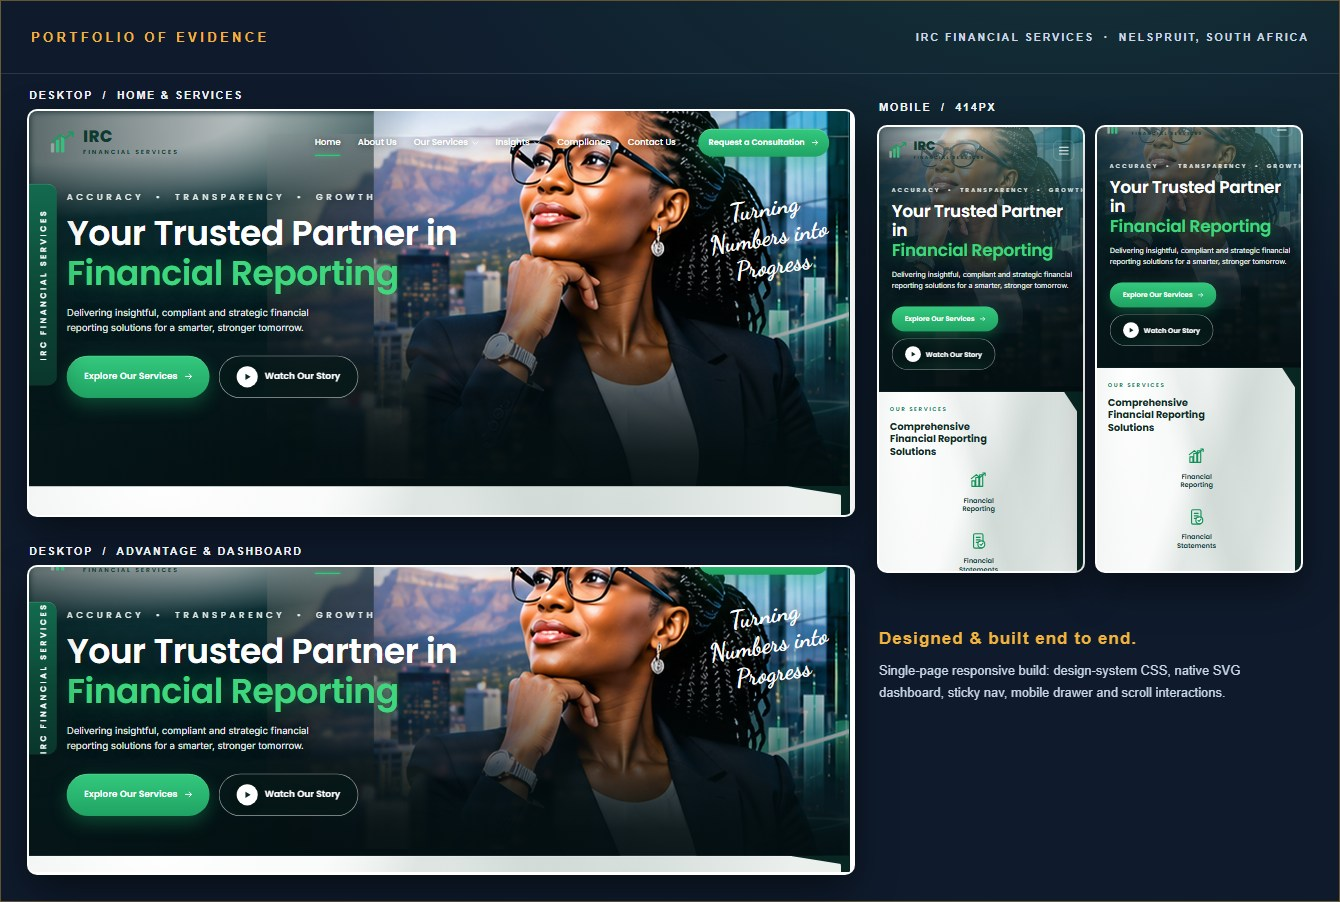
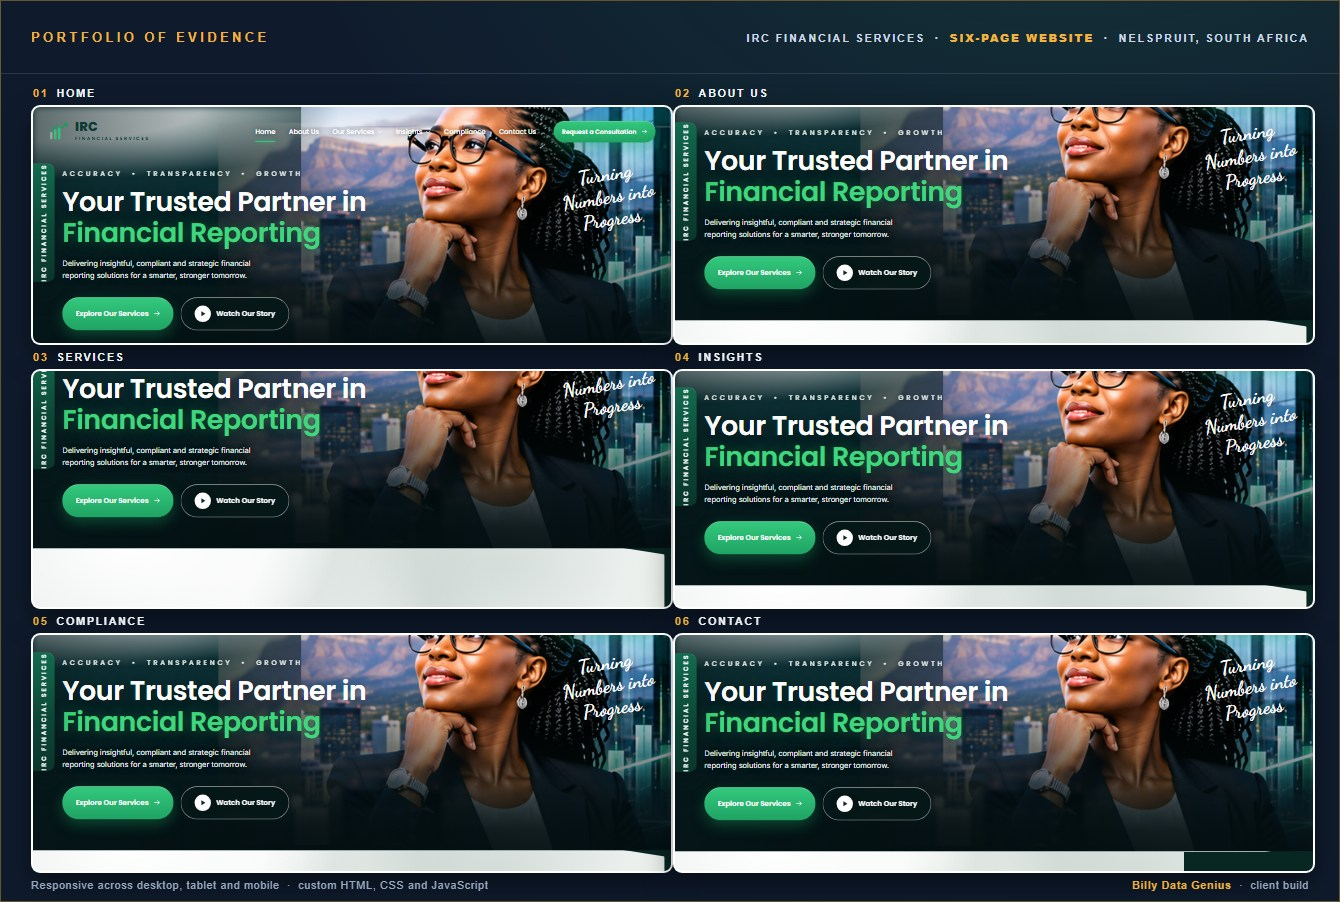
Portfolio: correct IRC to a six-page website — new six-tile evidence board (Home, About Us, Services, Insights, Compliance, Contact) and updated spotlight/carousel copy

diff --git a/portfolio.html b/portfolio.html
@@ -98,7 +98,7 @@
           <article class="work-card">
             <div class="work-thumb"><img src="images/work-irc-site.jpg" alt="IRC Financial Services website — financial reporting hero"></div>
             <h3>IRC Financial Services Website</h3>
-            <p>Responsive financial-reporting site with a live SVG performance dashboard.</p>
+            <p>Six-page financial-reporting website with a live SVG performance dashboard.</p>
           </article>
           <article class="work-card">
             <div class="work-thumb"><img src="images/work-school-dashboard.jpg" alt="School analytics dashboard with charts and KPI cards"></div>
@@ -159,18 +159,18 @@
 
     <div class="spotlight reveal" id="evidence-irc">
       <div class="spot-board">
-        <img src="images/evidence-irc-board.jpg" alt="Portfolio of evidence — the IRC Financial Services website on desktop, with the home and dashboard views also shown on mobile">
+        <img src="images/evidence-irc-board.jpg" alt="Portfolio of evidence — the six IRC Financial Services pages: Home, About Us, Services, Insights, Compliance and Contact">
       </div>
       <div class="spot-copy">
         <p class="eyebrow">Portfolio of Evidence</p>
-        <h3>IRC Financial Services<br><span class="gold-text">Reporting Website</span></h3>
+        <h3>IRC Financial Services<br><span class="gold-text">Six-Page Website</span></h3>
         <ul class="spot-list">
-          <li>Designed and built a premium single-page site for a Nelspruit financial-reporting practice: hero, services, advantage, performance dashboard, vision &amp; mission, insights and consultation CTA.</li>
-          <li>Translated the supplied design reference and HD photo assets into a clean build — no baked-in screenshot text, every label re-created in HTML and CSS.</li>
+          <li>Designed and built a complete six-page website for a Nelspruit financial-reporting practice — Home, About Us, Services, Insights, Compliance and Contact.</li>
+          <li>Translated the supplied design reference and HD photo assets into a clean, consistent build — no baked-in screenshot text; every label and graphic re-created in HTML, CSS and SVG.</li>
           <li>Built the financial-performance dashboard in native HTML and SVG: revenue, expenses and net-position stats, a 78% financial-health donut and a 12-month area chart.</li>
           <li>Created the design system in CSS: deep emerald gradients, silver-silk bands, mint and gold accents, and the anchored vertical brand ribbon.</li>
-          <li>Added sticky navigation with hover dropdowns, a mobile hamburger drawer, scroll-reveal animations and active-section highlighting.</li>
-          <li>Wired the consultation CTA and contact details — 081 060 6050, info@ircfs.co.za, Nelspruit — into the closing band; responsive across desktop, tablet and mobile.</li>
+          <li>Added sticky navigation linking all six pages, hover dropdowns, a mobile hamburger drawer, scroll-reveal animations and active-page highlighting.</li>
+          <li>Wired the consultation CTA and contact details — 081 060 6050, info@ircfs.co.za, Nelspruit — into the Contact page; responsive across desktop, tablet and mobile.</li>
         </ul>
         <div class="spot-tags">
           <span>HTML5</span><span>CSS Design System</span><span>JavaScript</span><span>SVG Charts</span><span>Responsive</span>
